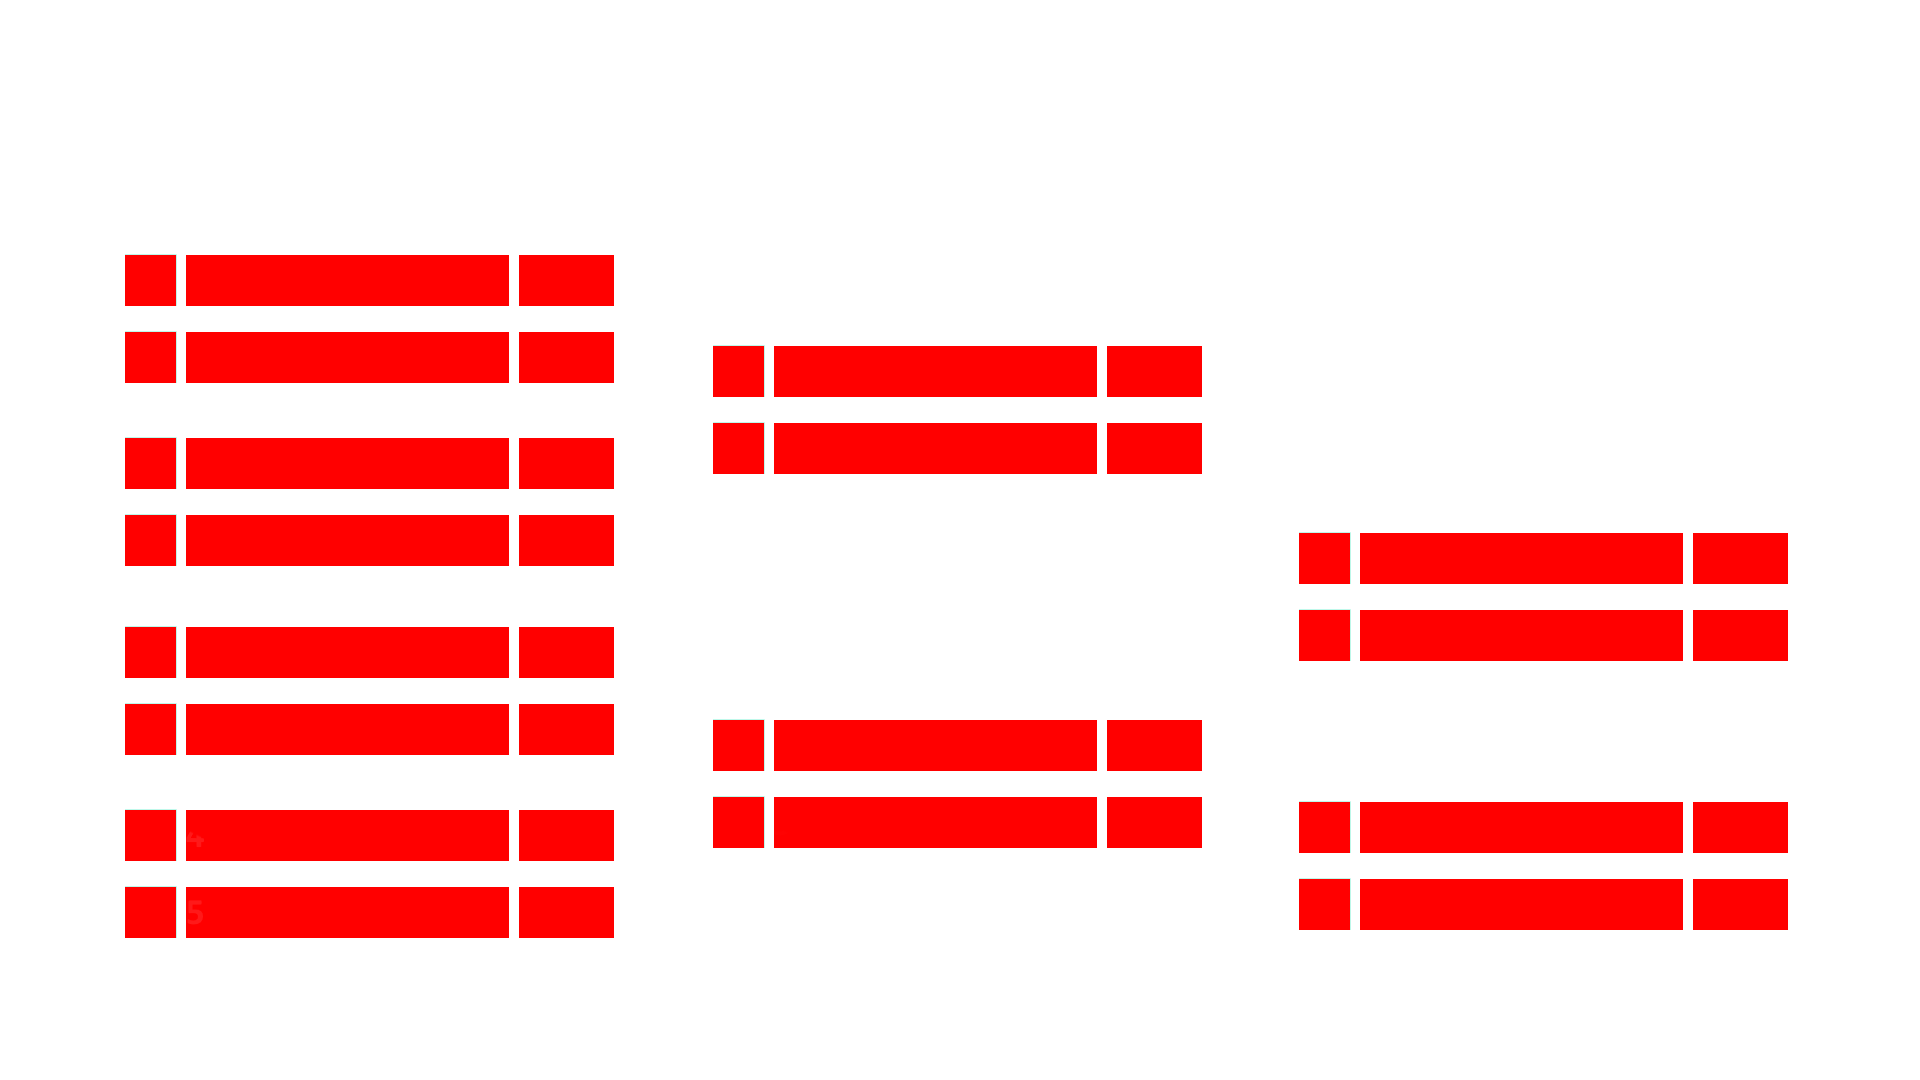
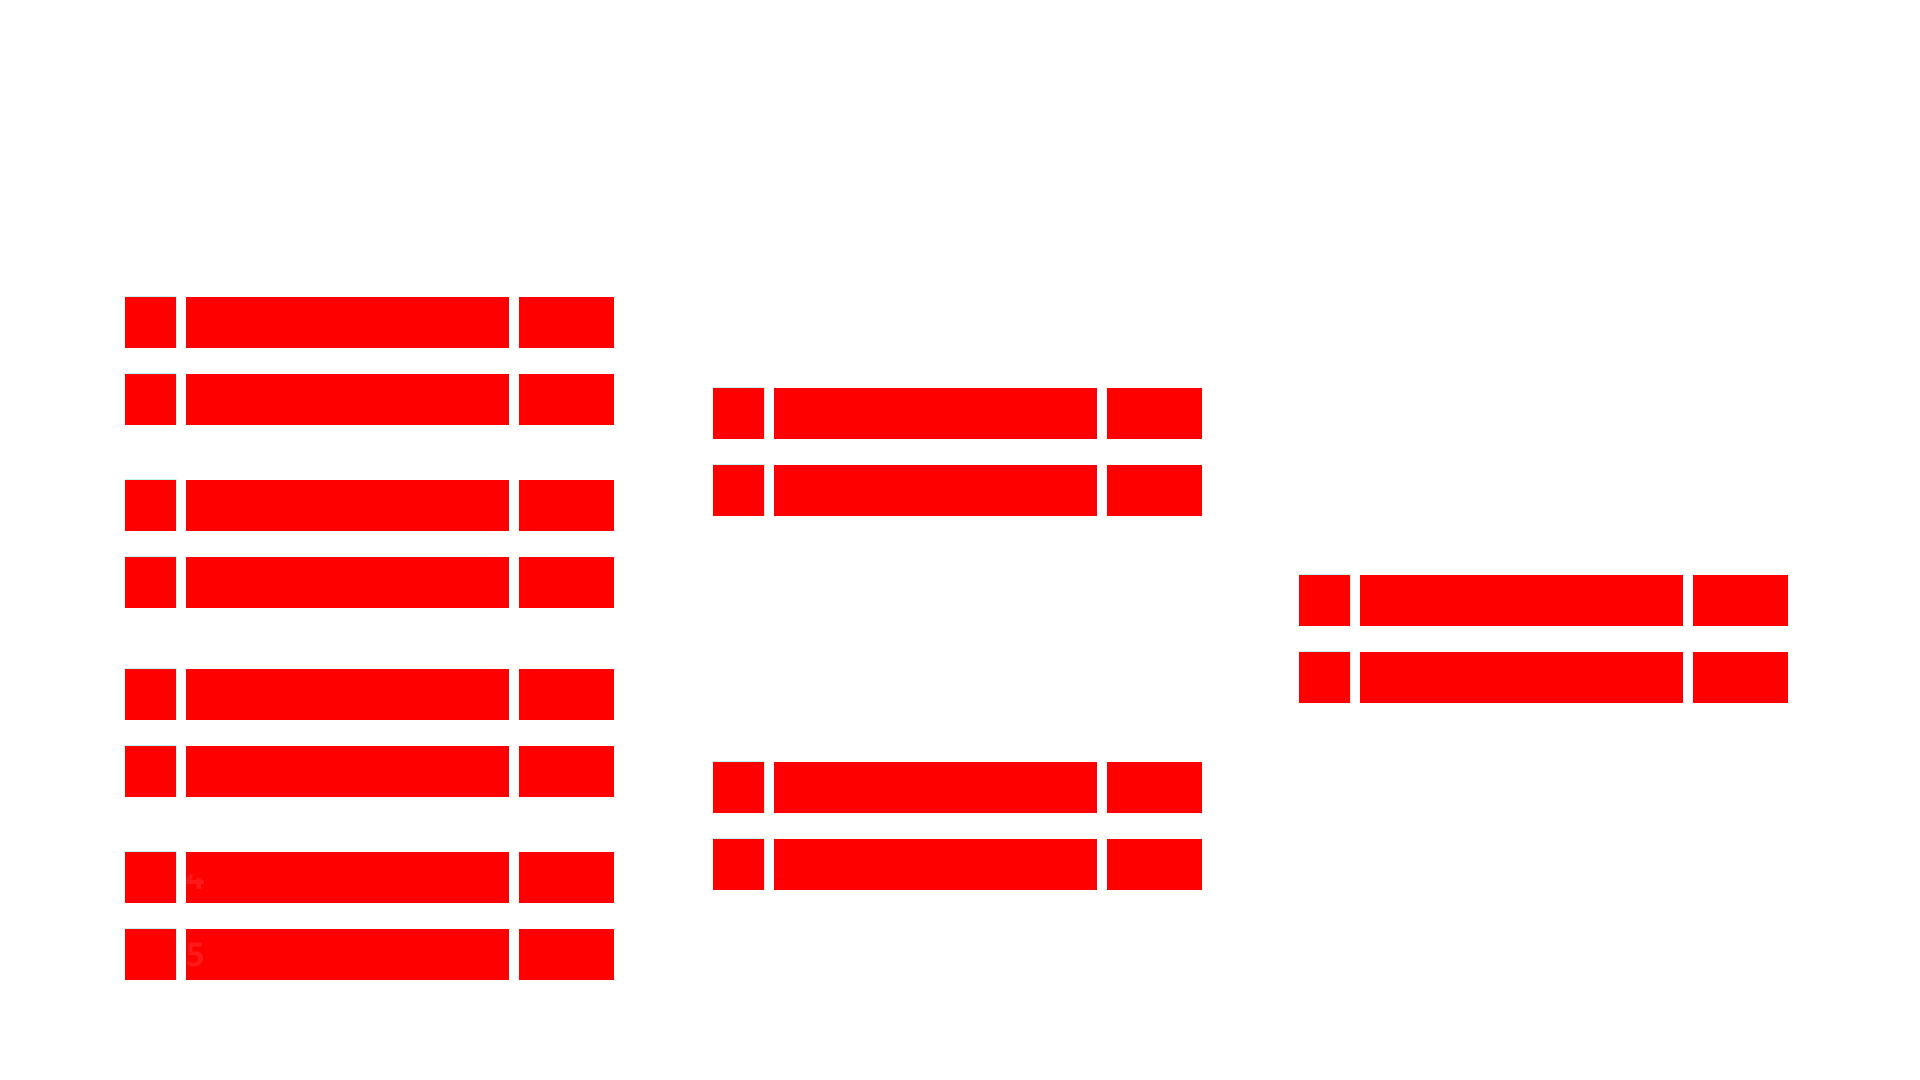
add &images to bracket-16player-8qualify, add &third-place to bracket-8player-img

diff --git a/templates/bracket-16player-8qualify/script.js b/templates/bracket-16player-8qualify/script.js
@@ -23,35 +23,49 @@
 
 function load() {
     var dom = document.getElementById("main");
-  
+
+    let images = getURLParam("images") != null;
+
     var rowAttributes = { height: 51, style: 'font-size: 26px; color: #fff;' };
     var rowLeft = { ...rowAttributes, style: rowAttributes.style + "color: #fff;", alignment: 'flex-center-left'};
     var rowRight = { ...rowAttributes, style: rowAttributes.style + "color: #fff;", alignment: 'flex-center-right'};
     var rowCenter = { ...rowAttributes, style: rowAttributes.style + "color: #fff;", alignment: 'flex-center-center'};
   
+    var imgWidth = 60;
+    var gap = 7;
+
+    var outerNameWidth = images ? 252 : 252 + gap + imgWidth;
+    var innerNameWidth = images ? 295 : 295 + gap + imgWidth;
+
+    // Define with no images
     var leftCols = [
-        { width: 60, image: true, ...rowLeft },
-        { width: 252, ...rowLeft },
+        { width: outerNameWidth, class: 'padding', ...rowLeft },
         { width: 50, ...rowCenter }
     ];
 
     var rightCols = [
         { width: 50, ...rowCenter },
-        { width: 252, ...rowRight },
-        { width: 60, image: true, ...rowRight }
+        { width: outerNameWidth, class: 'padding', ...rowRight },
     ];
 
     var qualifiedLeftCols = [
-        { width: 60, image: true, ...rowLeft },
-        { width: 295, ...rowLeft }
+        { width: innerNameWidth, class: 'padding', ...rowLeft }
     ];
 
     var qualifiedRightCols = [
-        { width: 295, ...rowRight },
-        { width: 60, image: true, ...rowRight }
+        { width: innerNameWidth, class: 'padding', ...rowRight }
     ];
 
+    // Add in image cols if including images
+    if (images) {
+        leftCols.unshift({ width: imgWidth, image: true, ...rowLeft });
+        rightCols.push({ width: imgWidth, image: true, ...rowRight });
+        qualifiedLeftCols.unshift({ width: imgWidth, image: true, ...rowLeft });
+        qualifiedRightCols.push({ width: imgWidth, image: true, ...rowRight });
+    }
+
     function leftSide(cellRef, left, top) {
+        if (!images) cellRef = Helpers.relativeColumn(cellRef, 1);
         matchup(cellRef, left, top, leftCols);
     }
 
@@ -60,17 +74,19 @@ function load() {
     }
 
     function middleLeft(cellRef, left, top) {
-        dom.innerHTML += table(cellRef, 1, { left: left, top: top}, 7, 75, qualifiedLeftCols);
+        if (!images) cellRef = Helpers.relativeColumn(cellRef, 1);
+        dom.innerHTML += table(cellRef, 1, { left: left, top: top}, gap, 75, qualifiedLeftCols);
     }
 
     function middleRight(cellRef, left, top) {
-        dom.innerHTML += table(cellRef, 1, { left: left, top: top}, 7, 75, qualifiedRightCols);
+        dom.innerHTML += table(cellRef, 1, { left: left, top: top}, gap, 75, qualifiedRightCols);
     }
   
     function matchup(cellRef, left, top, cols) {
-        dom.innerHTML += table(cellRef, 2, { left: left, top: top}, 7, 75, cols);
+        dom.innerHTML += table(cellRef, 2, { left: left, top: top}, gap, 75, cols);
     }
   
+    // All cellRefs provided are as if the image link is before the name
     var left = 60;
     leftSide('B2', left, 171);
     leftSide('B5', left, 376);

diff --git a/templates/bracket-8player-img/script.js b/templates/bracket-8player-img/script.js
@@ -24,6 +24,11 @@
 function load() {
   var dom = document.getElementById("main");
 
+  let thirdPlace = getURLParam("third-place") != null;
+  if (thirdPlace) {
+    document.getElementById("main").classList.add(`third-place`);
+  }
+
   var rowAttributes = { height: 51, class: 'padding', alignment: 'flex-center-center', style: 'font-size: 35px;' };
   var rowName = { ...rowAttributes, style: rowAttributes.style + "color: #fff;"};
   var rowScore = { ...rowAttributes, style: rowAttributes.style + "color: #fff;"};
@@ -51,5 +56,7 @@ function load() {
 
   left = 1300;
   matchup('M8', left, 533);
-  matchup('M12', left, 802);
+  if (thirdPlace) {
+    matchup('M12', left, 802);
+  }
 }

diff --git a/templates/bracket-16player-8qualify/styles.css b/templates/bracket-16player-8qualify/styles.css
@@ -3,8 +3,8 @@
 }
 
 .flex-center-left img {
-    margin-left: 15px;
+    margin-left: 20px;
 }
 .flex-center-right img {
-    margin-right: 15px;
+    margin-right: 20px;
 }

diff --git a/templates/bracket-8player-img/styles.css b/templates/bracket-8player-img/styles.css
@@ -1,0 +1,3 @@
+#main:not(.third-place) {
+    transform: translateY(42px);
+}
